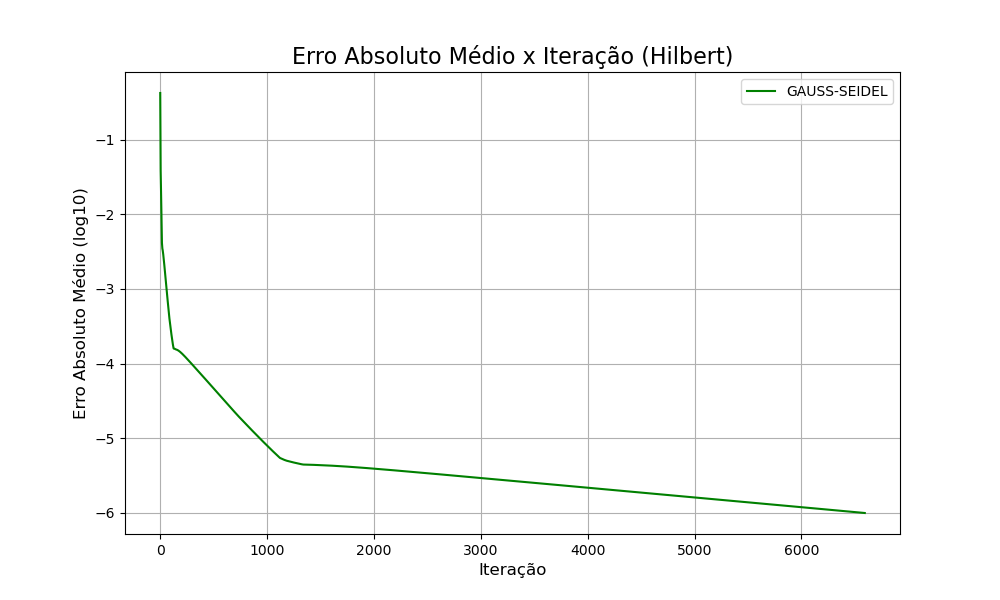
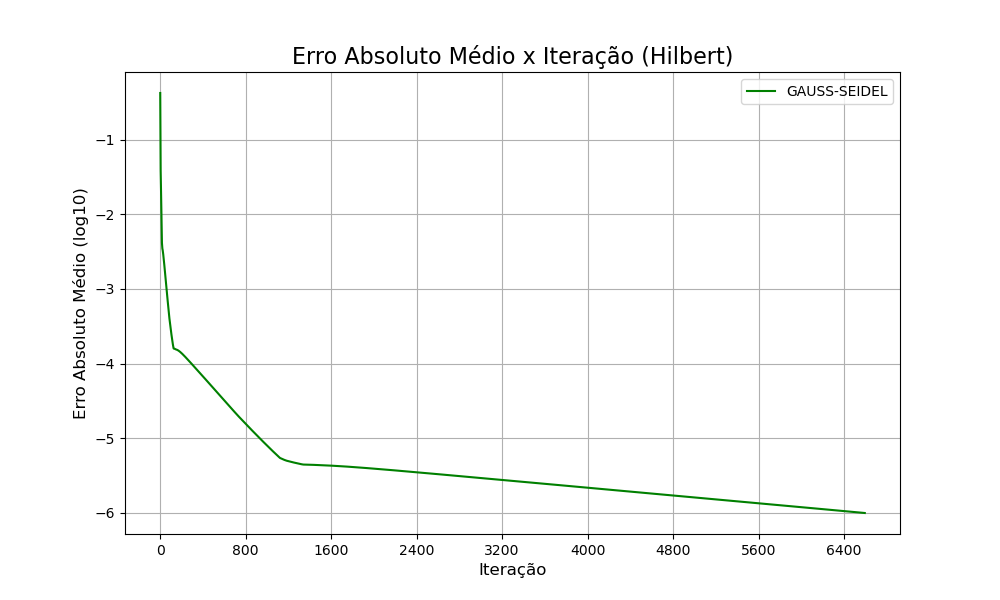
integer values in xx axis

diff --git a/main.py b/main.py
@@ -118,39 +118,44 @@ for m in _RESULT:
     solver2 = _RESULT[ m ][ 'GAUSS-SEIDEL' ]
 
     check = 0
+    n_iter1 = 0
+    n_iter2 = 0
     if solver1.converged:
         history = np.log10( np.asarray( solver1.error_history ) )
+        n_iter1 = len( history )
         y_list.append( history )
         x_list.append( [ i + 1 for i in range( len( history ) ) ] )
         label_list.append( 'JACOBI' )
         color_list.append( _COLORS[ 'JACOBI' ] )
-        f = p.line_plot( x_list = [ [ i + 1 for i in range( len( history ) ) ] ],
-                         y_list = [ history ],
-                         labels = [ 'JACOBI' ],
-                         colors = [ _COLORS[ 'JACOBI' ] ],
-                         y_label = 'Erro Absoluto Médio (log10)',
-                         x_label = 'Iteração',
-                         title = f'Erro Absoluto Médio x Iteração ({m})' )
-        f.savefig( f'./figures/erro_absoluto_medio_iteracao_jacobi_{m}' )
+        # f = p.line_plot( x_list = [ [ i + 1 for i in range( len( history ) ) ] ],
+        #                  y_list = [ history ],
+        #                  labels = [ 'JACOBI' ],
+        #                  colors = [ _COLORS[ 'JACOBI' ] ],
+        #                  y_label = 'Erro Absoluto Médio (log10)',
+        #                  x_label = 'Iteração',
+        #                  title = f'Erro Absoluto Médio x Iteração ({m})' )
+        # f.savefig( f'./figures/erro_absoluto_medio_iteracao_jacobi_{m}' )
         check += 1
 
     if solver2.converged:
         history = np.log10( np.asarray( solver2.error_history ) )
+        n_iter2 = len( history )
         y_list.append( history )
         x_list.append( [ i + 1 for i in range( len( history ) ) ] )
         label_list.append( 'GAUSS-SEIDEL' )
         color_list.append( _COLORS[ 'GAUSS-SEIDEL' ] )
-        f = p.line_plot( x_list = [ [ i + 1 for i in range( len( history ) ) ] ],
-                         y_list = [ history ],
-                         labels = [ 'GAUSS-SEIDEL' ],
-                         colors = [ _COLORS[ 'GAUSS-SEIDEL' ] ],
-                         y_label = 'Erro Absoluto Médio (log10)',
-                         x_label = 'Iteração',
-                         title = f'Erro Absoluto Médio x Iteração ({m})' )
-        f.savefig( f'./figures/erro_absoluto_medio_iteracao_gauss_seidel_{m}' )
+        # f = p.line_plot( x_list = [ [ i + 1 for i in range( len( history ) ) ] ],
+        #                  y_list = [ history ],
+        #                  labels = [ 'GAUSS-SEIDEL' ],
+        #                  colors = [ _COLORS[ 'GAUSS-SEIDEL' ] ],
+        #                  y_label = 'Erro Absoluto Médio (log10)',
+        #                  x_label = 'Iteração',
+        #                  title = f'Erro Absoluto Médio x Iteração ({m})' )
+        # f.savefig( f'./figures/erro_absoluto_medio_iteracao_gauss_seidel_{m}' )
         check += 1
 
     if check > 0:
+        n_iter = max( n_iter1, n_iter2 )
         f = p.line_plot( x_list = x_list,
                          y_list = y_list,
                          labels = label_list,

diff --git a/plot.py b/plot.py
@@ -1,5 +1,6 @@
 import matplotlib.pyplot as plt
 import numpy as np
+from matplotlib.ticker import MaxNLocator
 
 
 def bar_plot( height_list, labels, y_label = '', title = '', colors = 'random' ):
@@ -28,7 +29,7 @@ def bar_plot( height_list, labels, y_label = '', title = '', colors = 'random' )
     return  fig
 
 
-def line_plot( x_list, y_list, labels, x_label = '', y_label = '', title = '', colors = 'random', marker = '' ):
+def line_plot( x_list, y_list, labels, x_label = '', y_label = '', title = '', xtick_format = int, colors = 'random', marker = '' ):
     """Line Plot
 
     :param marker: type of marker
@@ -52,6 +53,8 @@ def line_plot( x_list, y_list, labels, x_label = '', y_label = '', title = '', c
     ax.set_title( title , fontsize = 16 )
     ax.set_xlabel( x_label, fontsize = 12 )
     ax.set_ylabel( y_label, fontsize = 12 )
+    if xtick_format == int:
+        ax.xaxis.set_major_locator( MaxNLocator( integer = True ) )
     ax.legend( labels )
     ax.grid( )
     return  fig
